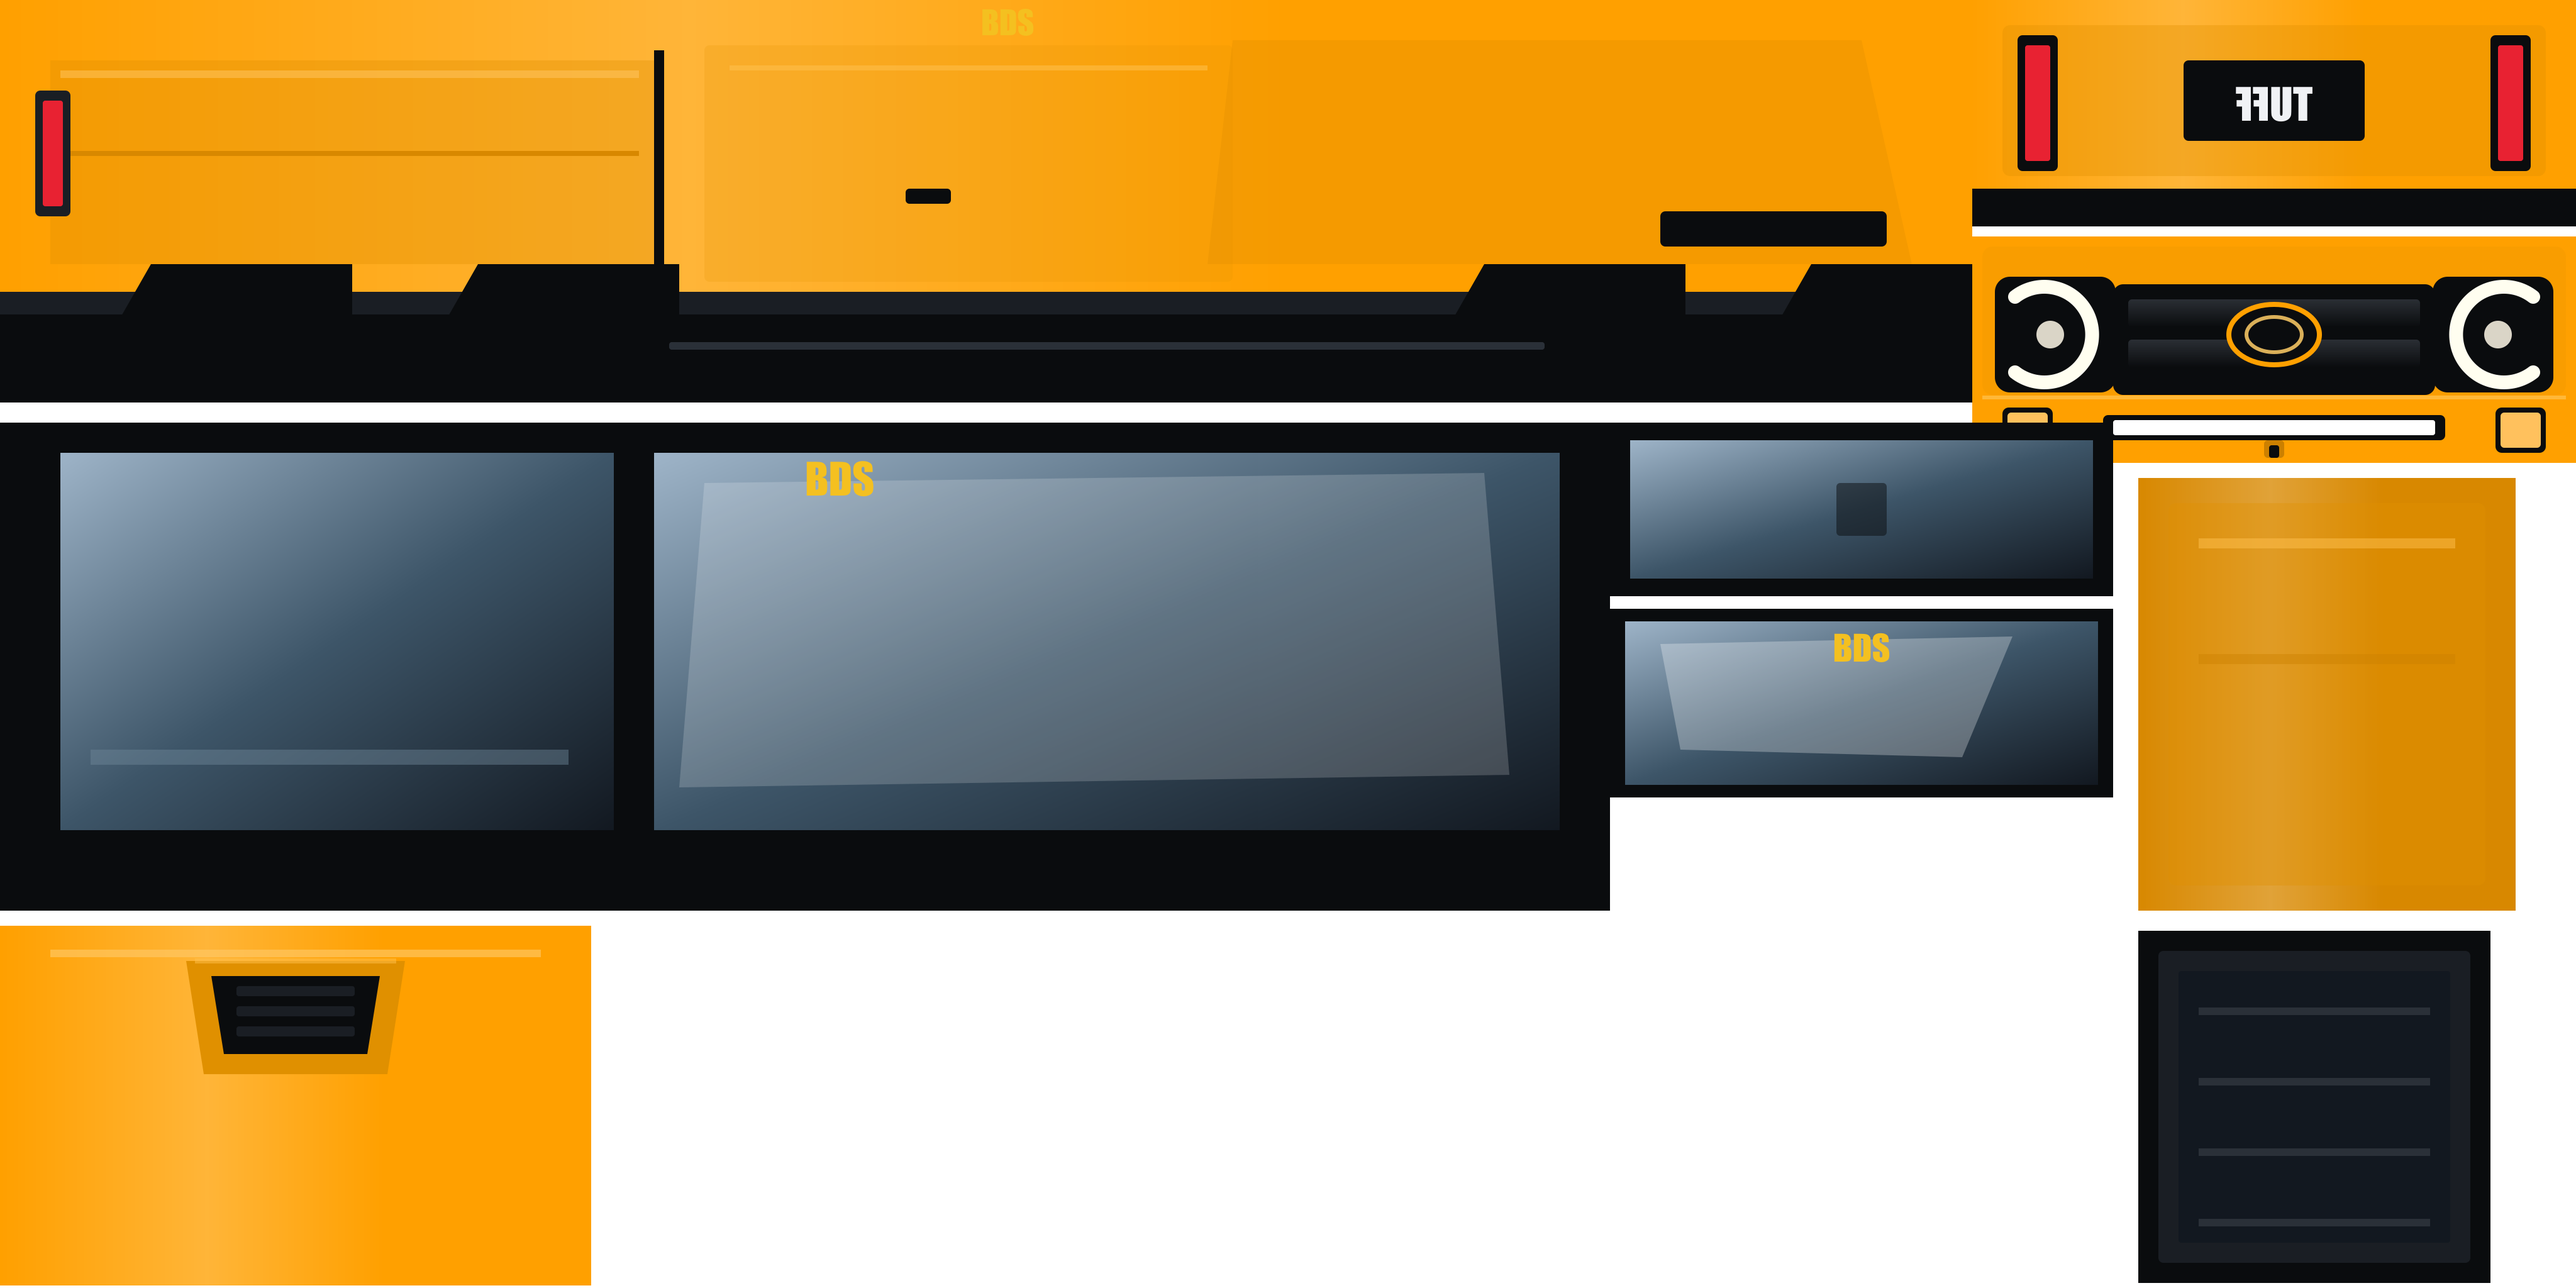
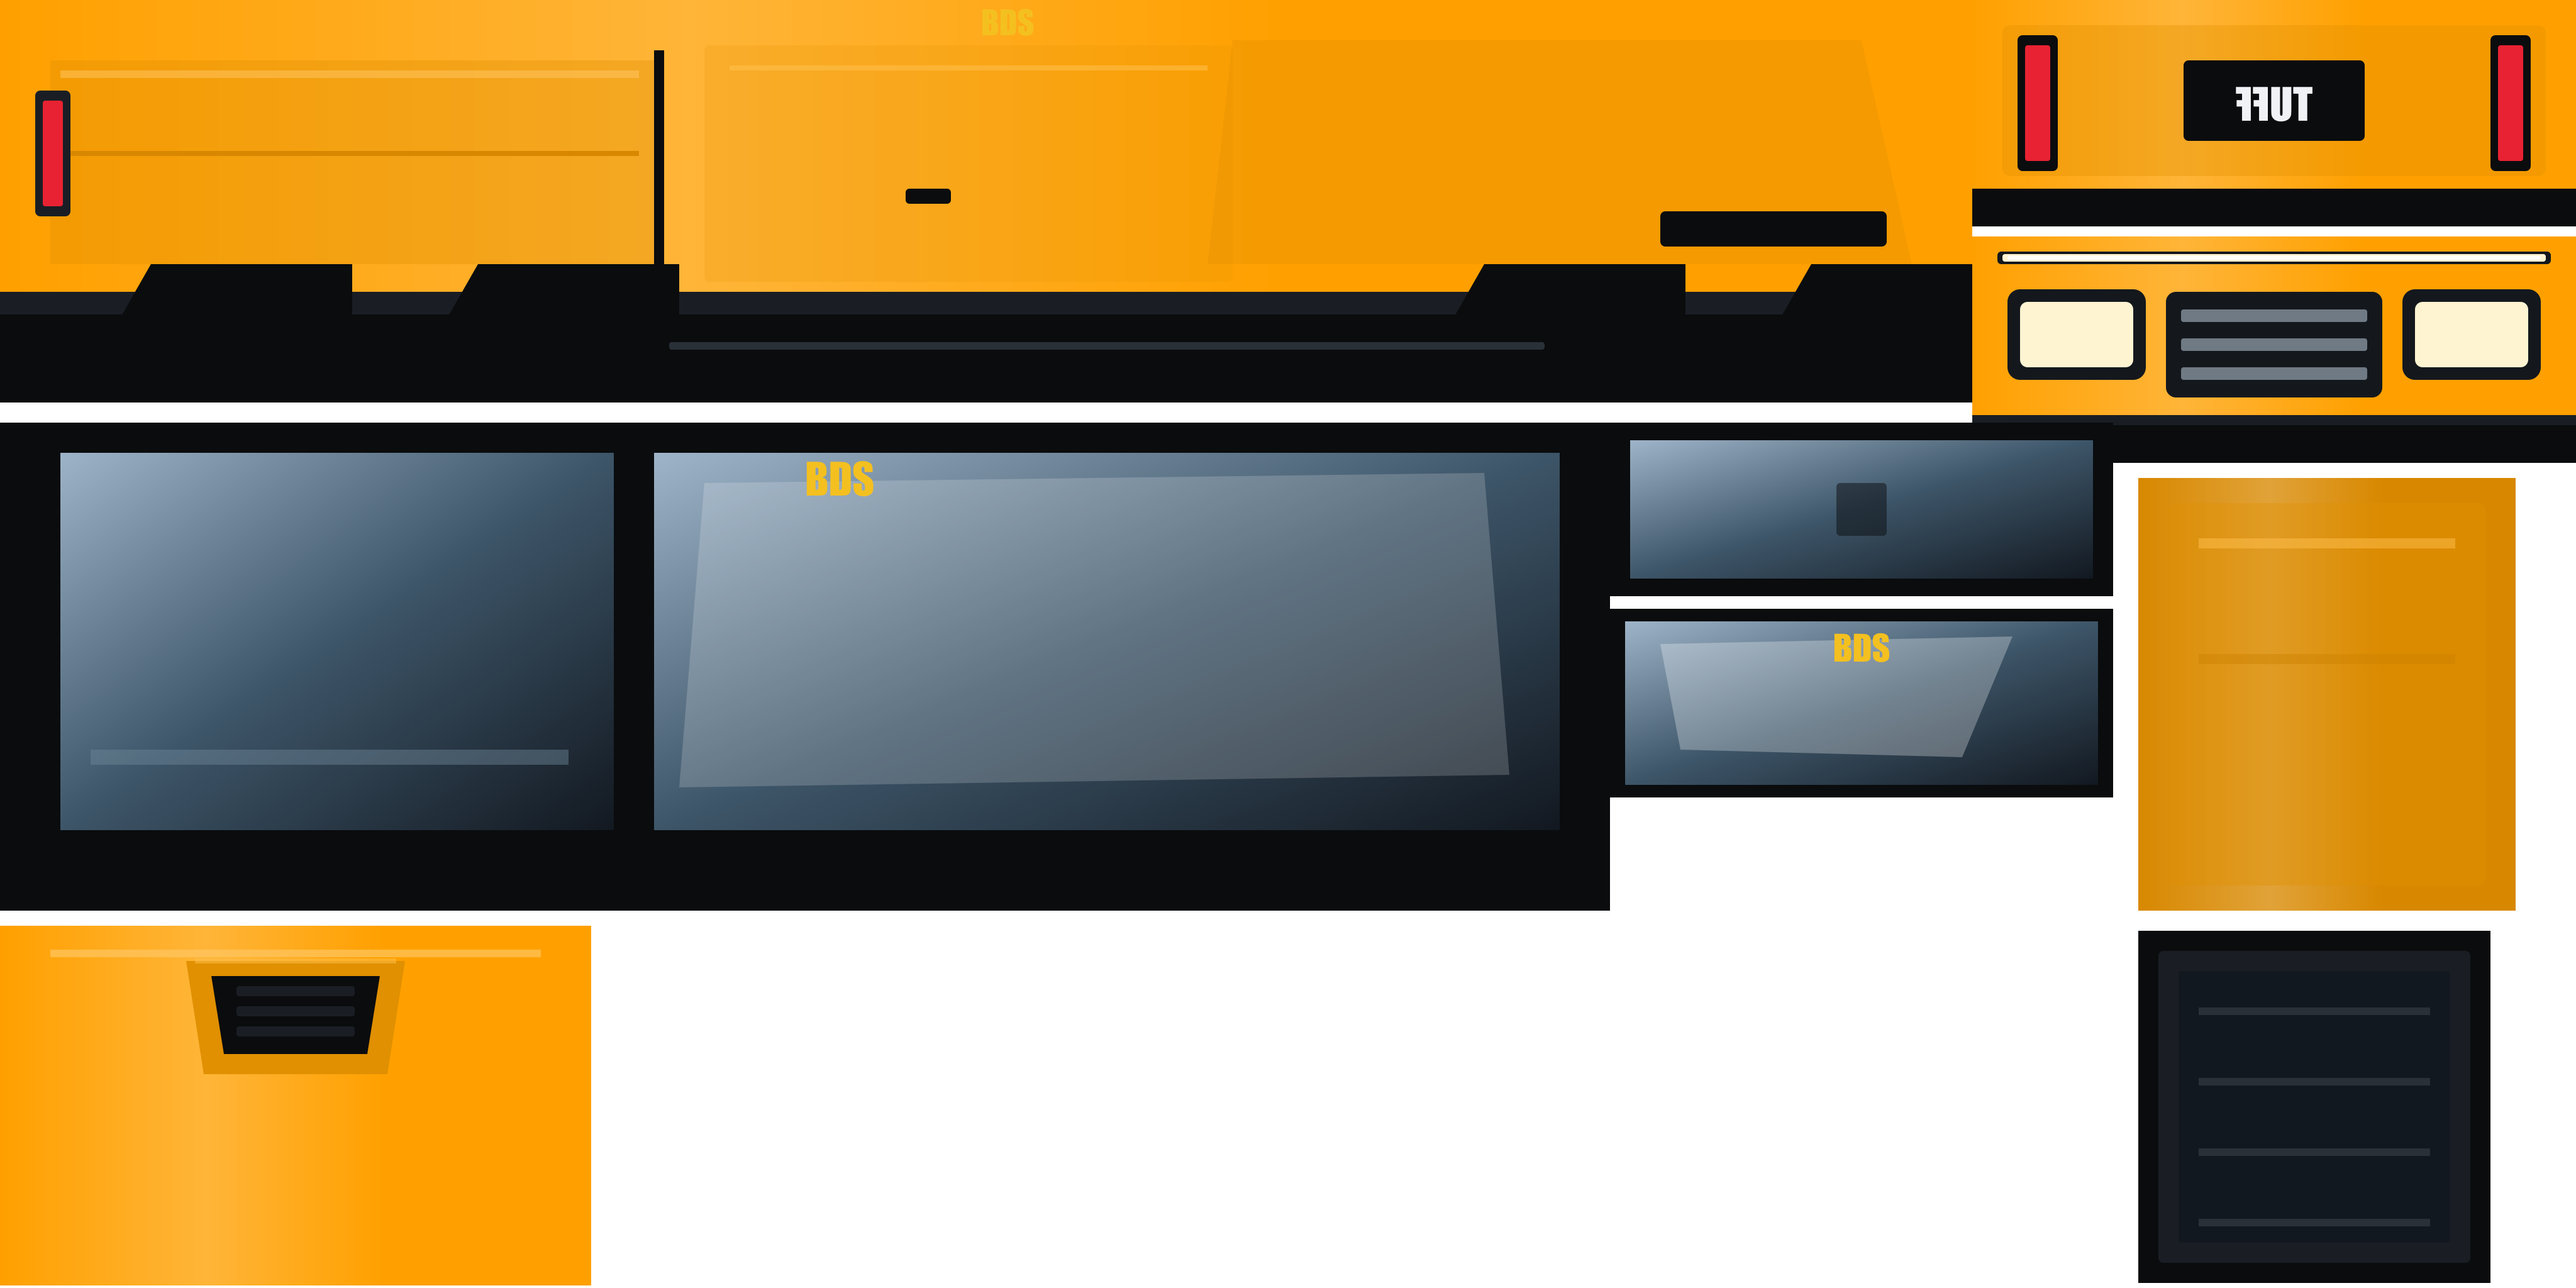
improve front grill of tuff truck

Changed region(s): [[0.75, 0.1562, 1.0, 0.375]]

diff --git a/src/client/src/pages/Race/carTruck.js b/src/client/src/pages/Race/carTruck.js
@@ -49,8 +49,7 @@ export const buildTruckCar = () => {
   const shockBody = new THREE.MeshStandardMaterial({ color: 0xe8ecef, metalness: 0.65, roughness: 0.32 });
   const shockLabel = new THREE.MeshStandardMaterial({ color: 0xffa000, metalness: 0.2, roughness: 0.5 });
   const tail = new THREE.MeshBasicMaterial({ color: 0xf02030 });
-  const lampWhite = new THREE.MeshBasicMaterial({ color: 0xfff4e8 });
-  const lampAmber = new THREE.MeshBasicMaterial({ color: 0xffb030 });
+  const lamp = new THREE.MeshBasicMaterial({ color: 0xfff4d2 });
 
   const bed = new THREE.Mesh(new THREE.BoxGeometry(1.94, 0.58, 1.48), [
     paint(region(TRUCK_ATLAS.bodySide)),
@@ -104,27 +103,24 @@ export const buildTruckCar = () => {
   fasciaFront.polygonOffset = true;
   fasciaFront.polygonOffsetFactor = 1;
   fasciaFront.polygonOffsetUnits = 1;
-  const fascia = new THREE.Mesh(new THREE.BoxGeometry(1.86, 0.98, 0.18), [
-    dark,
-    dark,
-    dark,
+  const fascia = new THREE.Mesh(new THREE.BoxGeometry(1.86, 0.80, 0.12), [
+    paint(region(TRUCK_ATLAS.bodySide)),
+    paint(region(TRUCK_ATLAS.bodySide, true)),
+    paint(region(TRUCK_ATLAS.hood)),
     dark,
     dark,
     fasciaFront,
   ]);
-  fascia.position.set(0, 0.86, -2.04);
-  const bumperShellMat = paint(region(TRUCK_ATLAS.bodyFront, true));
-  bumperShellMat.polygonOffset = true;
-  bumperShellMat.polygonOffsetFactor = 2;
-  bumperShellMat.polygonOffsetUnits = 2;
-  const bumperShell = new THREE.Mesh(new THREE.BoxGeometry(1.94, 0.2, 0.12), bumperShellMat);
-  bumperShell.position.set(0, 0.54, -2.1);
-  const lightBar = new THREE.Mesh(new THREE.BoxGeometry(0.78, 0.07, 0.035), lampWhite);
-  lightBar.position.set(0, 0.56, -2.17);
-  [-0.86, 0.86].forEach((x) => {
-    const pod = new THREE.Mesh(new THREE.BoxGeometry(0.11, 0.11, 0.05), lampAmber);
-    pod.position.set(x, 0.54, -2.17);
-    car.add(pod);
+  fascia.position.set(0, 0.90, -1.98);
+  const frontBumper = new THREE.Mesh(new THREE.BoxGeometry(1.88, 0.12, 0.08), dark);
+  frontBumper.position.set(0, 0.50, -2.05);
+  const headLedBar = new THREE.Mesh(new THREE.BoxGeometry(1.72, 0.04, 0.04), lamp);
+  headLedBar.position.set(0, 1.25, -2.05);
+  car.add(headLedBar);
+  [-0.62, 0.62].forEach((x) => {
+    const head = new THREE.Mesh(new THREE.BoxGeometry(0.32, 0.14, 0.04), lamp);
+    head.position.set(x, 0.94, -2.05);
+    car.add(head);
   });
   const windshield = new THREE.Mesh(new THREE.BoxGeometry(1.62, 0.48, 0.08), glass(region(TRUCK_ATLAS.windshield)));
   windshield.position.set(0, 1.28, -0.82);
@@ -138,10 +134,6 @@ export const buildTruckCar = () => {
     dark,
   ]);
   rearGlass.position.set(0, 1.22, 0.1);
-  const shackle = new THREE.Mesh(new THREE.TorusGeometry(0.055, 0.016, 8, 18), beadlock);
-  shackle.rotation.x = Math.PI / 2;
-  shackle.position.set(0, 0.36, -2.16);
-  shackle.renderOrder = 2;
   car.add(
     bed,
     tailgateMount,
@@ -151,11 +143,9 @@ export const buildTruckCar = () => {
     scoopLip,
     scoopWell,
     fascia,
-    bumperShell,
-    lightBar,
+    frontBumper,
     windshield,
     rearGlass,
-    shackle,
   );
   [-0.86, 0.86].forEach((x) => {
     const bezel = new THREE.Mesh(new THREE.BoxGeometry(0.14, 0.62, 0.08), dark);
